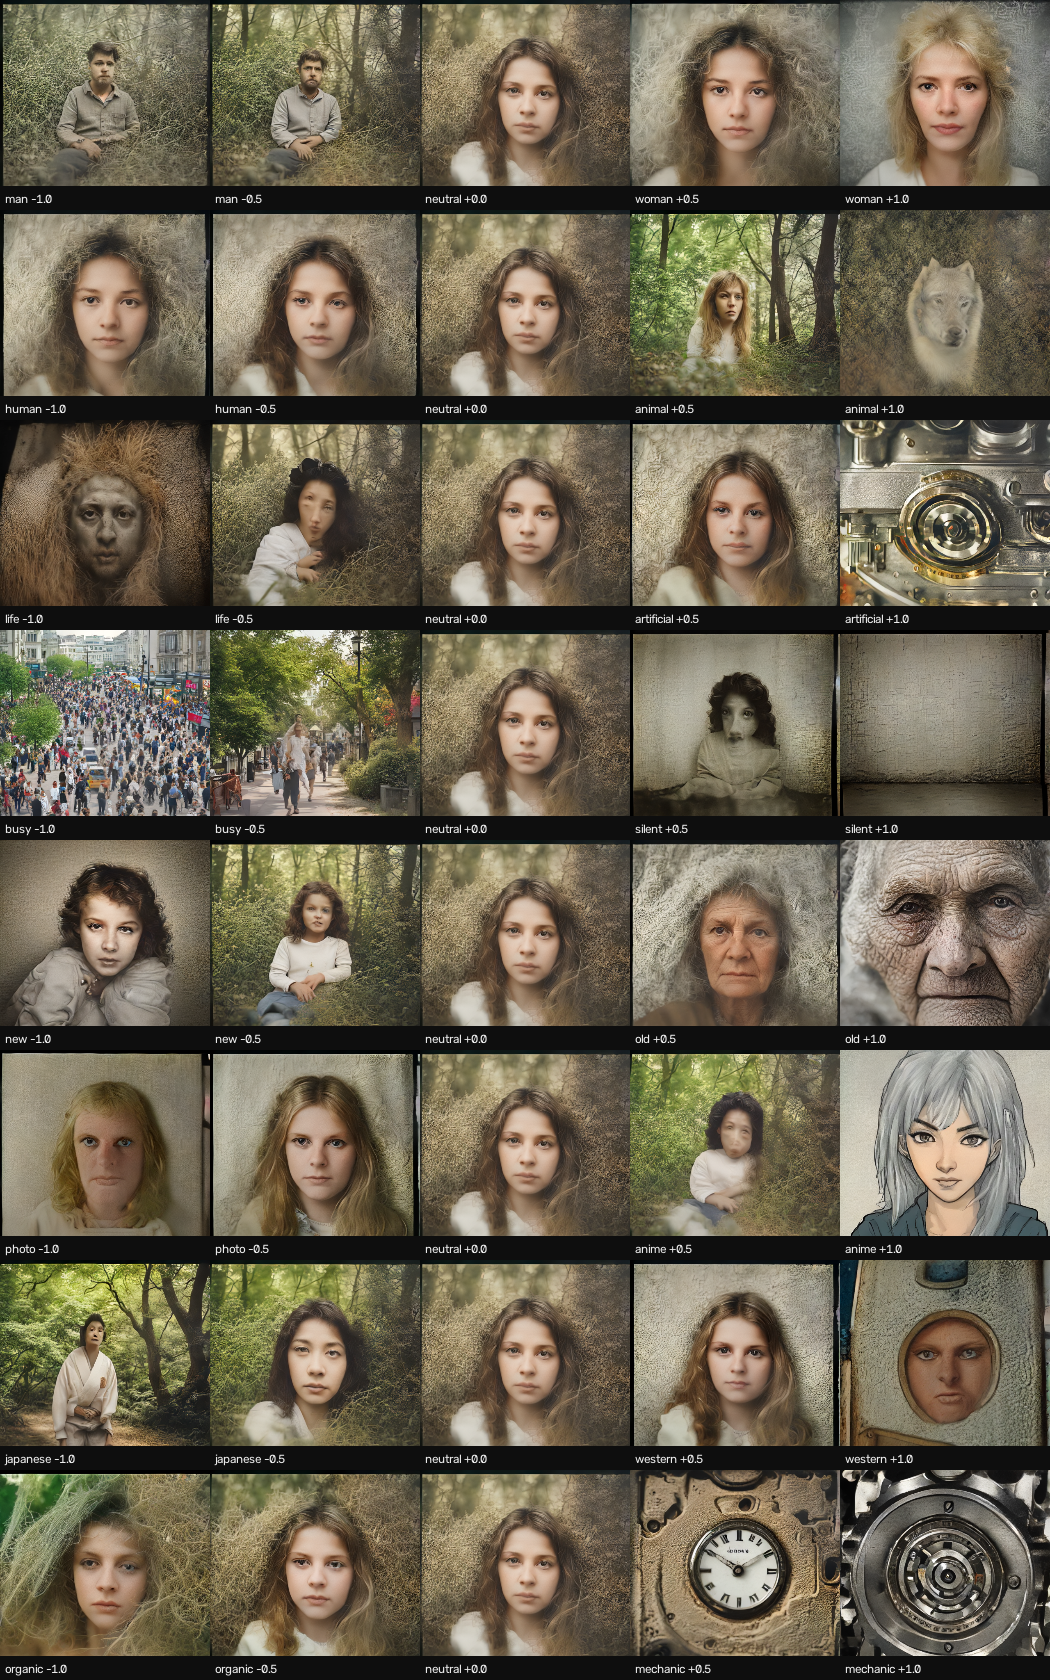
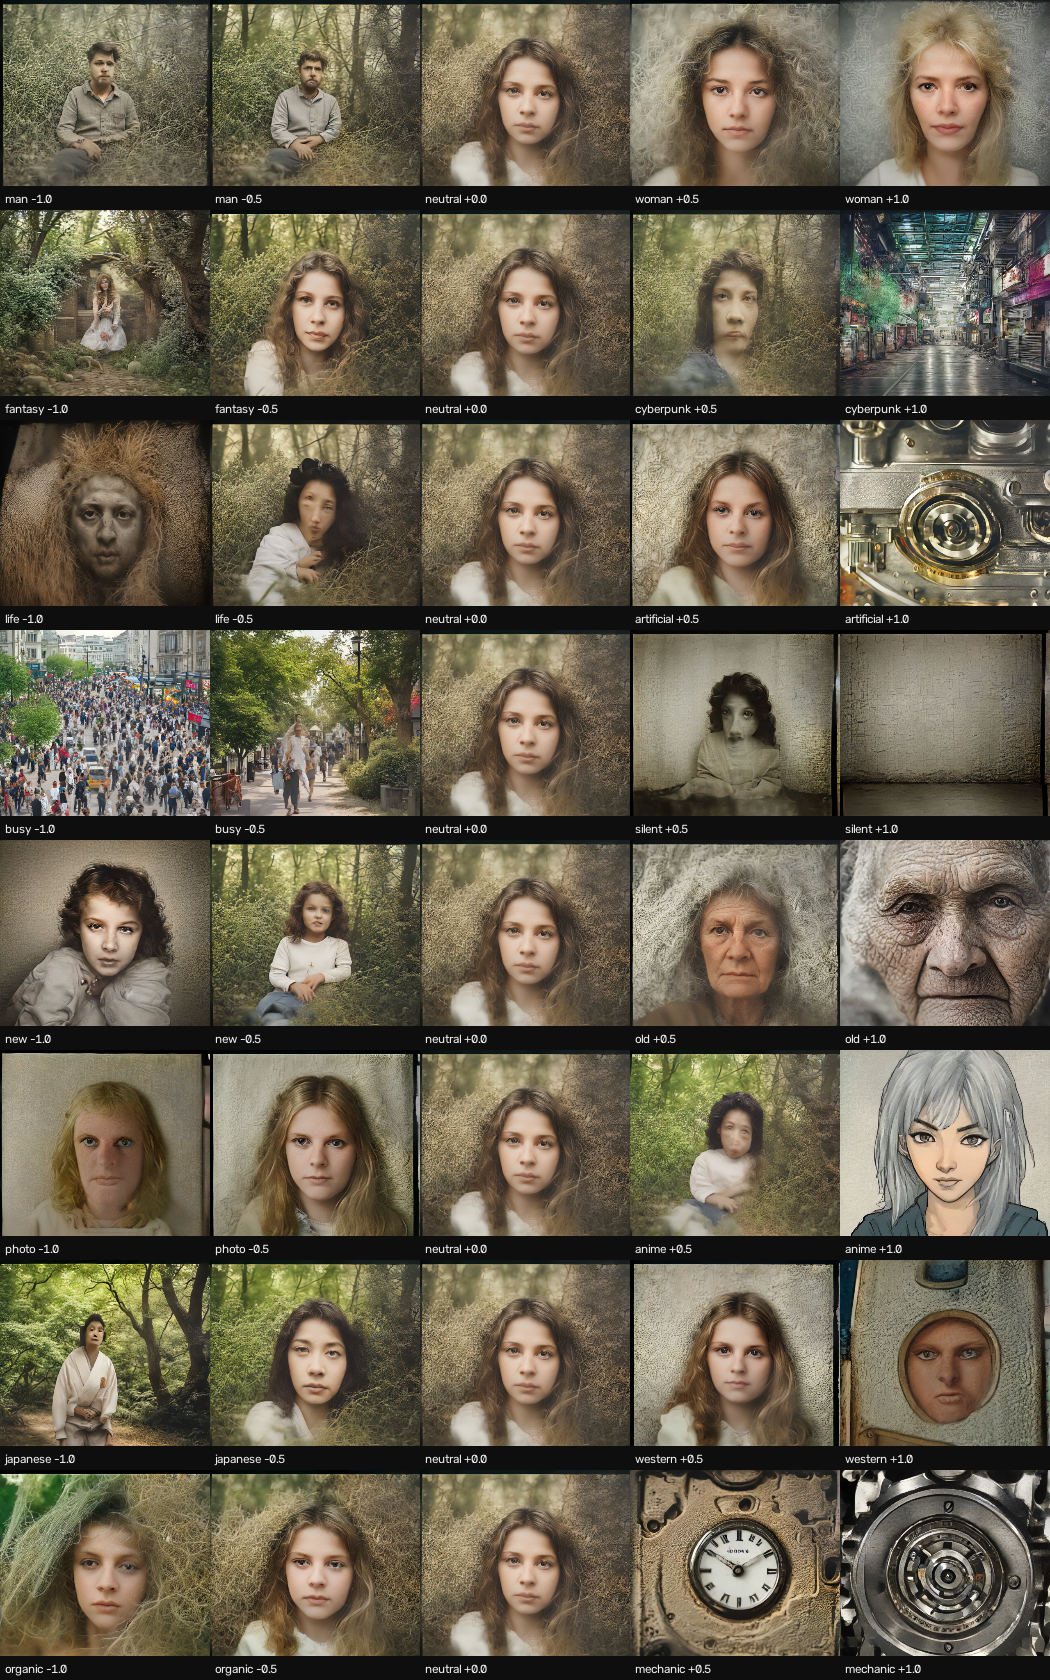
Pads mutate the base latent; knob 2 becomes fantasy <-> cyberpunk
Pads used to fire impulses that decayed back to the base over half a second,
so the image always sprang back. They now move the base latent itself and
leave it there: each pad owns the axis of the same number, and a hit steps
along that pad's direction blended with fresh noise, so no two strikes ever
land in the same place. Distance scales as velocity ** MUT_CURVE, which keeps
soft taps at a few degrees while a full hit jumps about thirty.

Every step is renormalised back onto the noise hypersphere. Without that the
walk drifts off the shell the UNet was trained on and the image washes out
after a handful of hits; with it, eight full hits land 73 degrees away and
still look like a photograph. Hits are drained rather than sampled so one
strike is applied exactly once however many frames it straddles, and the old
envelope now only drives the HUD flash.

Knob 2 was human <-> animal, which had no meaningful centre. fantasy <->
cyberpunk is two opposite departures from the real, so knob centre is the
unmodified scene. Rescaled to 95 from a raw direction length of 163.

pad_sheet.py renders the velocity and accumulation sweeps the same way
axes_sheet.py renders the semantic ones.

Claude-Session: https://claude.ai/code/session_01GFc39pWpmseiTHZLKoui4k

Changed region(s): [[0.579, 0.1238, 1.0, 0.2476], [0.0, 0.1238, 0.4267, 0.2476]]

diff --git a/midi_latent.py b/midi_latent.py
@@ -3,25 +3,27 @@
 All eight knobs are *semantic* axes: each is a direction in CLIP text-embedding
 space, built as the difference between two contrasting prompts and rescaled so every
 knob lands with comparable force. Turning a knob slides the image along that concept.
-Pads fire velocity-scaled impulses into the noise latent that decay over about half
-a second.
+Pads mutate the base noise latent for good. Each pad owns the axis of the same
+number, every hit jumps a random distance along it, and the harder you hit the
+further you go - so the image wanders somewhere new and stays there. Press r to
+start over from a fresh latent.
 
     .venv/Scripts/python.exe midi_latent.py
     .venv/Scripts/python.exe midi_latent.py --width 384 --height 384   # ~26 fps
 
 Knobs (left to right, after you have moved each one once):
-    1 man <-> woman        4 busy <-> silent      7 japanese <-> western
-    2 human <-> animal     5 new <-> old          8 organic <-> mechanic
-    3 life <-> artificial  6 photo <-> anime
+    1 man <-> woman          4 busy <-> silent      7 japanese <-> western
+    2 fantasy <-> cyberpunk  5 new <-> old          8 organic <-> mechanic
+    3 life <-> artificial    6 photo <-> anime
 
 Semantic depth is fixed at SEM_DEPTH (1.5) so every knob can be an axis.
 
-Pads: velocity-scaled latent impulses, one direction each.
+Pads: velocity-scaled permanent mutations of the base latent, one axis each.
 
 Keys in the window:
-    r  new base latent          d  toggle drift        s  save frame
-    n  new latent directions    h  toggle HUD          [ / ]  prev / next scene
-    c  recentre knobs           - / =  pad depth       q / esc  quit
+    r  reset the latent         d  toggle drift        s  save frame
+    n  new pad directions       h  toggle HUD          [ / ]  prev / next scene
+    c  recentre knobs           - / =  mutation size   q / esc  quit
 """
 import argparse
 import os
@@ -67,9 +69,12 @@ AXES = [
     ("man", "woman",
      "a portrait photograph of a man, male, masculine face",
      "a portrait photograph of a woman, female, feminine face", 100.0),
-    ("human", "animal",
-     "a portrait photograph of a person",
-     "a portrait photograph of a wolf", 62.0),
+    # Two opposite departures from the real, so centre is the unmodified scene:
+    # magic and the pre-industrial past one way, neon and the high-tech future the
+    # other. About genre and setting, not material - that is knob 8's job.
+    ("fantasy", "cyberpunk",
+     "a photograph of a fantasy world, magic, medieval, dragons, enchanted",
+     "a photograph of a cyberpunk world, neon, chrome, cybernetic, futuristic", 95.0),
     ("life", "artificial",
      "a portrait photograph of a living organic creature, flesh, alive",
      "a photograph of a machine, robot, chrome, circuitry, mechanical", 93.0),
@@ -95,8 +100,11 @@ N_PADS = 8
 
 SEM_DEPTH = 1.5      # semantic depth, fixed - all eight knobs are axes now
 SEM_GAIN = 1.0       # multiplier at knob = 1.0 and depth = 1.0
-PAD_GAIN = 2.2       # latent sigma for a full-velocity pad hit
-PAD_TAU = 0.55       # impulse decay constant, seconds
+MUT_STEP = 0.6       # how far a full-velocity hit moves the base latent
+MUT_CURVE = 1.5      # velocity exponent - soft taps nudge, hard hits leap
+MUT_JITTER = 0.7     # fresh randomness blended into the pad's own direction, so
+                     # no two hits on the same pad ever land in the same place
+PAD_TAU = 0.35       # HUD flash decay, seconds - the mutation itself is permanent
 DRIFT = 0.014        # random-walk step per frame when drift is on
 
 
@@ -125,7 +133,8 @@ class Midi:
         self.raw = {}            # cc number -> 0..127
         self.cc_slots = []       # sorted cc numbers
         self.note_slots = []     # sorted note numbers
-        self.impulses = deque()  # (slot, amp, t0)
+        self.impulses = deque()  # (slot, amp, t0) - HUD flash only
+        self.pending = deque()   # (slot, velocity) - unconsumed mutations
         self.offset = {}         # cc -> value treated as centre
         self.lock = threading.Lock()
         self._stop = False
@@ -149,7 +158,9 @@ class Midi:
                         self.note_slots = sorted(set(self.note_slots) | {msg.note})
                     slot = self.note_slots.index(msg.note)
                     if slot < N_PADS:
-                        self.impulses.append((slot, msg.velocity / 127.0, now))
+                        vel = msg.velocity / 127.0
+                        self.impulses.append((slot, vel, now))
+                        self.pending.append((slot, vel))
 
     def knob(self, slot, default=0.0):
         """Knob `slot` as -1..1 around its centre, or `default` until first moved."""
@@ -175,6 +186,16 @@ class Midi:
     def recentre(self):
         with self.lock:
             self.offset = dict(self.raw)
+
+    def take_hits(self):
+        """Drain the pad hits since the last call, as (slot, velocity) pairs.
+
+        Consuming rather than sampling matters here: a mutation must be applied
+        exactly once, however many frames the hit straddles.
+        """
+        with self.lock:
+            hits, self.pending = list(self.pending), deque()
+        return hits
 
     def pad_envelopes(self, now):
         amps = np.zeros(N_PADS, dtype=np.float32)
@@ -246,7 +267,7 @@ INK = (196, 206, 216)
 DIM = (132, 140, 150)
 
 
-def draw_hud(frame, knobs, pad_depth, amps, fps, scene, drift, saved):
+def draw_hud(frame, knobs, mut_size, amps, fps, scene, drift, saved):
     h, w = frame.shape[:2]
     overlay = frame.copy()
     cv2.rectangle(overlay, (0, h - PANEL), (w, h), (16, 13, 11), -1)
@@ -267,9 +288,11 @@ def draw_hud(frame, knobs, pad_depth, amps, fps, scene, drift, saved):
     y = top + 58
     for i, (lname, rname, *_rest) in enumerate(AXES):
         cy = y + i * row_h
+        # pad i mutates the latent along axis i - flash the labels so you can see it
+        lab = tuple(int(c + (250 - c) * float(np.clip(amps[i], 0, 1))) for c in DIM)
         (tw, _), _ = cv2.getTextSize(lname, FONT, 0.36, 1)
-        cv2.putText(frame, lname, (bar_x - 8 - tw, cy + 5), FONT, 0.36, DIM, 1, cv2.LINE_AA)
-        cv2.putText(frame, rname, (bar_x + bar_w + 8, cy + 5), FONT, 0.36, DIM, 1, cv2.LINE_AA)
+        cv2.putText(frame, lname, (bar_x - 8 - tw, cy + 5), FONT, 0.36, lab, 1, cv2.LINE_AA)
+        cv2.putText(frame, rname, (bar_x + bar_w + 8, cy + 5), FONT, 0.36, lab, 1, cv2.LINE_AA)
         cv2.rectangle(frame, (bar_x, cy - 3), (bar_x + bar_w, cy + 4), (54, 60, 68), -1)
         mid = bar_x + bar_w // 2
         v = int(knobs[i] * (bar_w // 2))
@@ -285,10 +308,10 @@ def draw_hud(frame, knobs, pad_depth, amps, fps, scene, drift, saved):
     cv2.putText(frame, f"sem {SEM_DEPTH:.1f} fixed", (rx, top + 20), FONT, 0.36,
                 (140, 200, 90), 1, cv2.LINE_AA)
     yy = top + 28
-    cv2.putText(frame, "pad", (rx, yy + 8), FONT, 0.36, DIM, 1, cv2.LINE_AA)
+    cv2.putText(frame, "mut", (rx, yy + 8), FONT, 0.36, DIM, 1, cv2.LINE_AA)
     cv2.rectangle(frame, (rx + 56, yy), (rx + 176, yy + 7), (54, 60, 68), -1)
     cv2.rectangle(frame, (rx + 56, yy),
-                  (rx + 56 + int(120 * np.clip(pad_depth / 2.0, 0, 1)), yy + 7),
+                  (rx + 56 + int(120 * np.clip(mut_size / 2.0, 0, 1)), yy + 7),
                   (90, 170, 235), -1)
 
     py = top + 60
@@ -342,12 +365,18 @@ def main():
     base = new_base()
     base_norm = base.float().norm()
     latent_dirs = orthonormal_basis(N_PADS, shape, gen, device, dtype)
+    dir_norm = latent_dirs[0].float().norm()
+
+    def renorm(z):
+        """Back onto the noise hypersphere. Mutations accumulate, and off the
+        sphere the UNet gets something it never saw in training and washes out."""
+        return (z * (base_norm / z.float().norm().clamp(min=1e-6))).to(dtype)
 
     win = "StreamDiffusion - MIDI"
     cv2.namedWindow(win, cv2.WINDOW_AUTOSIZE)
 
     scene_i, show_hud, drift, saved_until = 0, True, False, 0.0
-    pad_depth = 1.0          # - and = adjust; all eight knobs are spoken for
+    mut_size = 1.0          # - and = adjust; all eight knobs are spoken for
     fps, frames, t_fps = 0.0, 0, time.perf_counter()
     print("\nrunning - focus the image window for keys, ctrl-c here to stop\n")
 
@@ -365,18 +394,17 @@ def main():
                 if abs(k) > 1e-3:
                     emb = emb + (float(k) * SEM_DEPTH * SEM_GAIN) * axes[i]
 
-            # --- the noise latent carries variation and the pad hits
+            # --- pads mutate the base latent for good, one axis each
+            for slot, vel in midi.take_hits():
+                d = latent_dirs[slot] + MUT_JITTER * torch.randn(
+                    shape, generator=gen, dtype=torch.float32).to(device, dtype)
+                d = d * (dir_norm / d.float().norm().clamp(min=1e-6))
+                base = renorm(base + (vel ** MUT_CURVE) * MUT_STEP * mut_size * d)
+
             if drift:
-                base = base + DRIFT * torch.randn(base.shape, generator=gen,
-                                                  dtype=torch.float32).to(device, dtype)
-            offset = torch.zeros_like(base)
-            for i in range(N_PADS):
-                if amps[i] > 1e-3:
-                    offset = offset + float(amps[i]) * PAD_GAIN * pad_depth * latent_dirs[i]
-            latent = base + offset
-            # keep the modulated latent on the noise hypersphere, or the UNet gets
-            # something it never saw in training and the image washes out
-            latent = (latent * (base_norm / latent.float().norm().clamp(min=1e-6))).to(dtype)
+                base = renorm(base + DRIFT * torch.randn(base.shape, generator=gen,
+                                                         dtype=torch.float32).to(device, dtype))
+            latent = base
 
             frame = to_bgr(generate(sd, latent, emb.to(dtype)))
 
@@ -388,7 +416,7 @@ def main():
                 frame = cv2.resize(frame, None, fx=a.scale, fy=a.scale,
                                    interpolation=cv2.INTER_LINEAR)
             if show_hud:
-                frame = draw_hud(frame, knobs, pad_depth, amps, fps,
+                frame = draw_hud(frame, knobs, mut_size, amps, fps,
                                  SCENES[scene_i], drift, now < saved_until)
 
             cv2.imshow(win, frame)
@@ -403,9 +431,9 @@ def main():
             elif k == ord("c"):
                 midi.recentre()
             elif k == ord("-"):
-                pad_depth = max(0.0, pad_depth - 0.1)
+                mut_size = max(0.0, mut_size - 0.1)
             elif k in (ord("="), ord("+")):
-                pad_depth = min(2.0, pad_depth + 0.1)
+                mut_size = min(2.0, mut_size + 0.1)
             elif k == ord("d"):
                 drift = not drift
             elif k == ord("h"):

diff --git a/pad_sheet.py b/pad_sheet.py
@@ -1,0 +1,110 @@
+"""Regenerate the pad-mutation calibration sheet.
+
+Top row: one hit on the same pad at rising velocity, each from the same starting
+latent - this is the "harder you hit, the further you go" curve made visible.
+Bottom row: repeated full-velocity hits, walking away from where you started.
+
+Use it after changing MUT_STEP, MUT_CURVE or MUT_JITTER. If the top row barely
+moves the step is too small; if even a soft tap lands somewhere unrelated it is
+too big.
+
+    python pad_sheet.py
+"""
+import argparse
+import math
+import os
+import sys
+
+sys.path.insert(0, os.path.dirname(os.path.abspath(__file__)))
+
+import cv2
+import numpy as np
+import torch
+
+import midi_latent as M  # inserts upstream/ on sys.path and applies the compat shims
+from utils.wrapper import StreamDiffusionWrapper
+
+OUT = os.path.join(os.path.dirname(os.path.abspath(__file__)), "outputs")
+VELOCITIES = [0.0, 0.25, 0.5, 0.75, 1.0]
+ACCUM = [0, 1, 2, 4, 8]
+CELL = 210
+
+
+def main():
+    p = argparse.ArgumentParser()
+    p.add_argument("--model", default="stabilityai/sd-turbo")
+    p.add_argument("--seed", type=int, default=11)
+    p.add_argument("--scene", type=int, default=0, help="index into midi_latent.SCENES")
+    p.add_argument("--pad", type=int, default=0, help="which pad to strike")
+    p.add_argument("--out", default="pad_mutation.png")
+    a = p.parse_args()
+
+    stream = StreamDiffusionWrapper(
+        model_id_or_path=a.model, t_index_list=[0], frame_buffer_size=1,
+        width=512, height=512, warmup=10, acceleration="none", mode="txt2img",
+        use_denoising_batch=True, cfg_type="none", use_lcm_lora=False,
+        use_tiny_vae=True, output_type="pt", seed=a.seed,
+    )
+    scene = M.SCENES[a.scene]
+    stream.prepare(prompt=scene, num_inference_steps=50)
+    sd = stream.stream
+    batch = sd.batch_size
+    shape = (4, sd.latent_height, sd.latent_width)
+    device, dtype = sd.device, sd.dtype
+
+    emb = M.encode(sd, scene, batch).to(dtype)
+    gen = torch.Generator(device="cpu").manual_seed(a.seed)
+
+    base0 = torch.randn((batch, *shape), generator=gen, dtype=torch.float32).to(device, dtype)
+    base_norm = base0.float().norm()
+    dirs = M.orthonormal_basis(M.N_PADS, shape, gen, device, dtype)
+    dir_norm = dirs[0].float().norm()
+
+    def renorm(z):
+        return (z * (base_norm / z.float().norm().clamp(min=1e-6))).to(dtype)
+
+    def hit(base, slot, vel):
+        """Exactly the mutation midi_latent applies on a pad strike."""
+        d = dirs[slot] + M.MUT_JITTER * torch.randn(
+            shape, generator=gen, dtype=torch.float32).to(device, dtype)
+        d = d * (dir_norm / d.float().norm().clamp(min=1e-6))
+        return renorm(base + (vel ** M.MUT_CURVE) * M.MUT_STEP * d)
+
+    def angle(x, y):
+        c = (x.flatten().float() @ y.flatten().float()) / (x.float().norm() * y.float().norm())
+        return math.degrees(math.acos(float(c.clamp(-1, 1))))
+
+    def cell(latent, label):
+        img = cv2.resize(M.to_bgr(M.generate(sd, latent, emb)), (CELL, CELL))
+        cv2.rectangle(img, (0, CELL - 24), (CELL, CELL), (14, 14, 14), -1)
+        cv2.putText(img, label, (5, CELL - 7), cv2.FONT_HERSHEY_SIMPLEX, 0.40,
+                    (236, 236, 236), 1, cv2.LINE_AA)
+        return img
+
+    rows = []
+
+    cells = []
+    for v in VELOCITIES:
+        b = base0 if v == 0 else hit(base0, a.pad, v)
+        cells.append(cell(b, "start" if v == 0 else f"vel {v:.2f}  {angle(base0, b):.0f} deg"))
+        print(f"  vel {v:.2f} -> {angle(base0, b):5.1f} deg", flush=True)
+    rows.append(np.concatenate(cells, axis=1))
+
+    cells, b, n = [], base0.clone(), 0
+    for target in ACCUM:
+        while n < target:
+            b = hit(b, n % M.N_PADS, 1.0)
+            n += 1
+        cells.append(cell(b, "start" if n == 0 else f"{n} hits  {angle(base0, b):.0f} deg"))
+        print(f"  {n} hits -> {angle(base0, b):5.1f} deg", flush=True)
+    rows.append(np.concatenate(cells, axis=1))
+
+    os.makedirs(OUT, exist_ok=True)
+    path = os.path.join(OUT, a.out)
+    sheet = np.concatenate(rows, axis=0)
+    cv2.imwrite(path, sheet)
+    print(f"wrote {path}  {sheet.shape[1]}x{sheet.shape[0]}")
+
+
+if __name__ == "__main__":
+    main()
